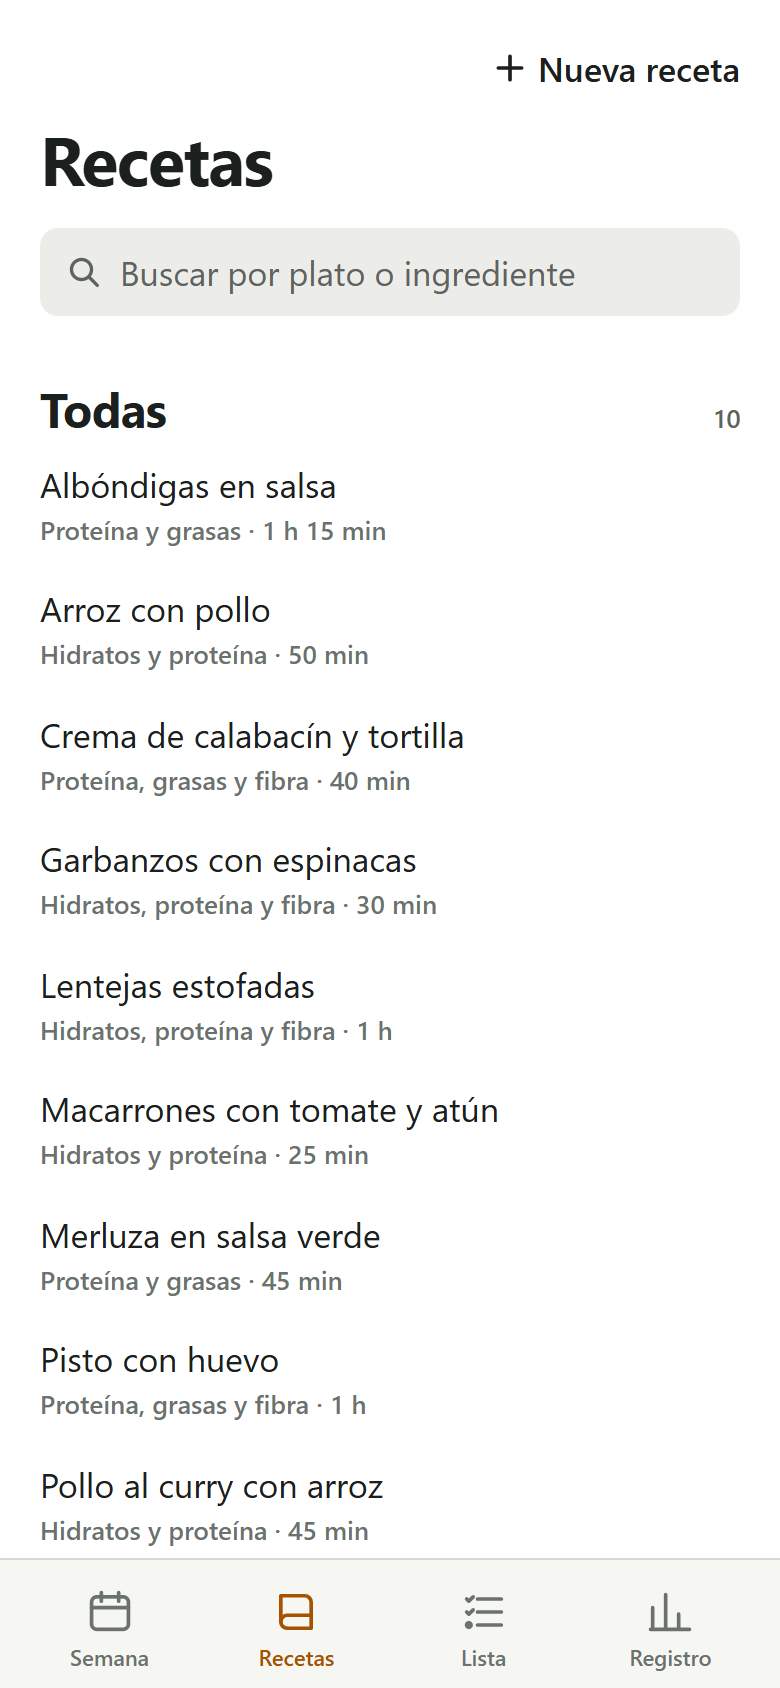
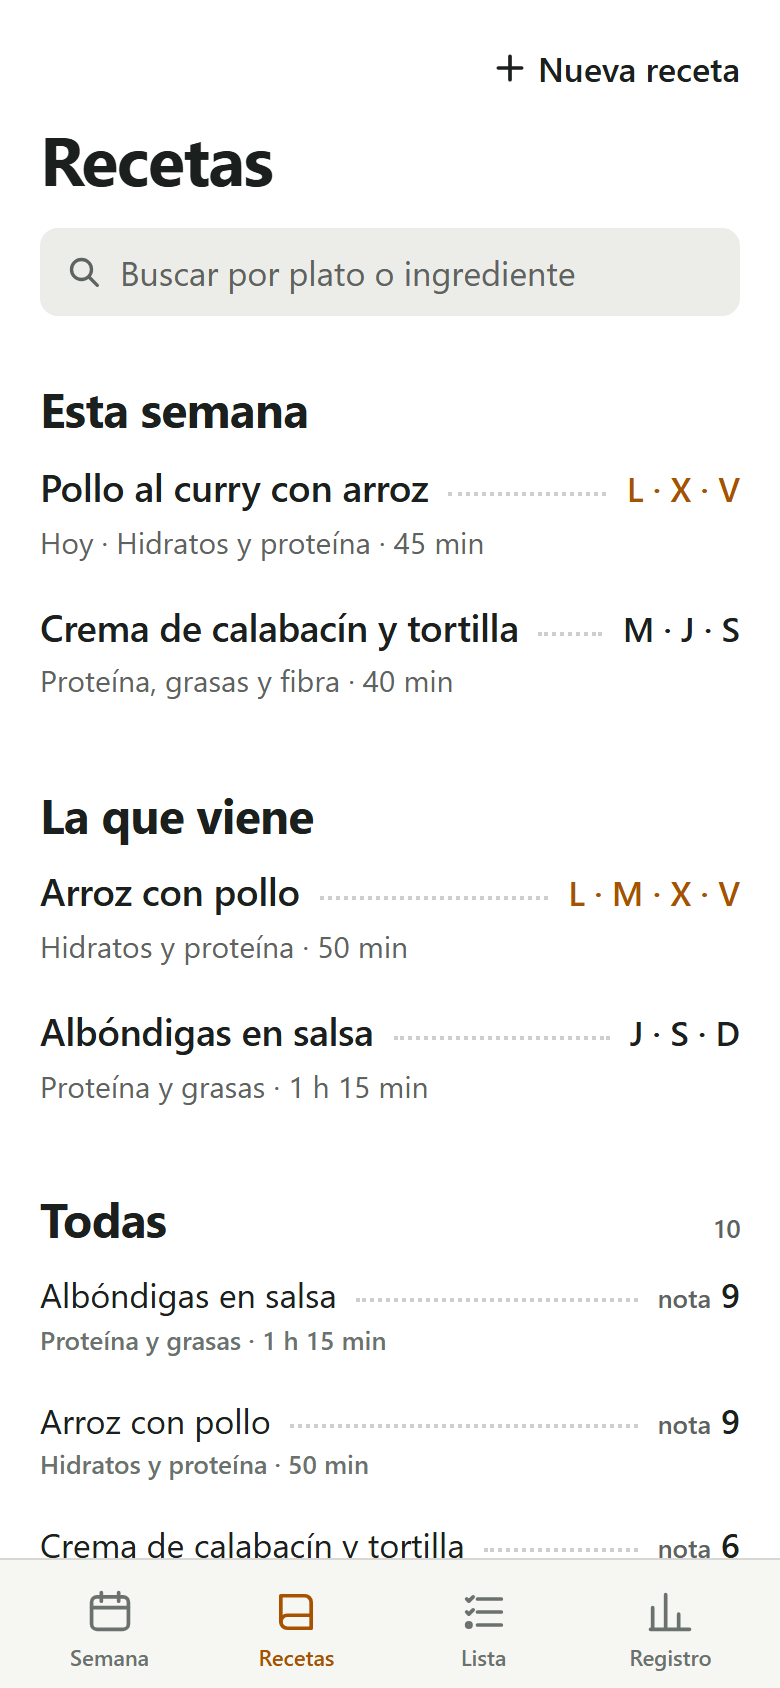
docs: show the week tab and settings in the README
- README: plan 3 done, Semana and Ajustes in use, new screenshots in light and dark,
  how to plan the week, invite from Ajustes and re-run the local migrations.
- Spec: decisions 25 and 28 as built (only the list writes the week row; an empty
  slot keeps its days).
- DESIGN.md: the empty picker sentence.

diff --git a/README.md b/README.md
@@ -10,19 +10,21 @@ sola. Es una PWA para iPhone: React, Vite y TypeScript, servida por un Worker de
 
 ## En qué punto está
 
-La app se construye en seis planes. Los dos primeros están terminados:
+La app se construye en seis planes. Los tres primeros están terminados:
 - **El 1, los cimientos:** acceso, base de datos, sincronización y las reglas de la semana.
 - **El 2, las recetas:** el recetario, la receta para cocinar y el editor con fotos.
+- **El 3, la semana:** la propuesta, los días activos, el domingo, cambiar platos, hacer la lista y
+  Ajustes.
 
-Las demás pantallas de uso diario llegan en los planes 3 a 5.
+La pantalla de la lista y el registro llegan en los planes 4 y 5. Hay 276 tests y todos pasan.
 
 | Parte | Estado |
 |---|---|
-| Entrar sin contraseñas: passkey, invitación y sesión | Funciona |
+| Entrar sin contraseñas: passkey, invitación y sesión | Funciona. La invitación y cerrar sesión están en Ajustes |
 | Copia en el móvil y sincronización | Funciona. La copia se abre con tu hogar y se sincroniza sola al abrir, al escribir y al volver a la app |
-| Reglas: reparto, propuesta, lista, cantidades y notas | Funcionan. Las recetas ya usan las suyas: cantidades, tipos y marcas de los pasos |
-| Recetas: índice, búsqueda, cocinar, crear, editar, borrar y fotos | Funciona |
-| Semana | Plan 3 |
+| Reglas: reparto, propuesta, lista, cantidades y notas | Funcionan. Las recetas y la semana ya usan las suyas |
+| Recetas: índice, búsqueda, cocinar, crear, editar, borrar y fotos | Funciona. El índice enseña también los platos de esta semana y de la que viene |
+| Semana: propuesta, días activos, domingo, cambiar platos y hacer la lista | Funciona. La lista ya guarda sus productos; su pantalla llega en el plan 4 |
 | Lista de la compra | Plan 4 |
 | Registro | Plan 5 |
 | En vivo entre los dos, sin conexión y publicación | Plan 6 |
@@ -36,27 +38,41 @@ Las pantallas que ya existen, en un iPhone de 390 puntos.
     <td width="25%"><img src="docs/capturas/app-bienvenida-claro.png" alt="Bienvenida: el título Despensa, una línea que explica la app, el botón Crear nuestro hogar y el enlace Ya tengo cuenta: entrar"></td>
     <td width="25%"><img src="docs/capturas/app-invitacion-claro.png" alt="Invitación: Tu pareja te invita a su Despensa, con el botón Entrar con Face ID"></td>
     <td width="25%"><img src="docs/capturas/app-invitacion-caducada-claro.png" alt="Invitación que ya no vale, con el enlace Entrar con mi passkey"></td>
-    <td width="25%"><img src="docs/capturas/app-semana-claro.png" alt="Semana tras entrar: el título y la barra de cuatro pestañas, aún vacía"></td>
+    <td width="25%"><img src="docs/capturas/app-ajustes-claro.png" alt="Ajustes: Tu pareja con el botón Invitar a tu pareja, Sesión con Cerrar sesión y la versión 0.3.0"></td>
   </tr>
   <tr>
     <td><b>Bienvenida</b><br>Crear vuestro hogar o volver a entrar con tu passkey.</td>
     <td><b>Invitación</b><br>Lo que ve tu pareja al abrir el enlace.</td>
     <td><b>Invitación que ya no vale</b><br>Caducó, ya se usó o el hogar está completo.</td>
-    <td><b>Tras entrar</b><br>Semana, Lista y Registro aún están vacías.</td>
+    <td><b>Ajustes</b><br>Invitar a tu pareja, cerrar sesión y la versión. Se abre con el engranaje de Semana.</td>
   </tr>
 </table>
 
-Las recetas, con las diez recetas inventadas de la semilla de desarrollo y una foto también inventada.
+La semana y las recetas, con las diez recetas inventadas de la semilla de desarrollo, su historial de
+notas también inventado y una foto ilustrada.
 
 <table>
   <tr>
-    <td width="25%"><img src="docs/capturas/app-recetas-claro.png" alt="Recetas: el título, Nueva receta, el buscador y la lista de todas las recetas con sus tipos y su tiempo"></td>
-    <td width="25%"><img src="docs/capturas/app-receta-claro.png" alt="Lentejas estofadas a medio cocinar: los dos primeros pasos y los ingredientes que ya no se usan, tachados"></td>
-    <td width="25%"><img src="docs/capturas/app-editor-claro.png" alt="Editor de receta en la parte Ingredientes: cada ingrediente con su cantidad, su tipo y su sección"></td>
-    <td width="25%"><img src="docs/capturas/app-receta-foto-claro.png" alt="Lentejas estofadas con la miniatura de su foto junto al título"></td>
+    <td width="25%"><img src="docs/capturas/app-semana-esta-claro.png" alt="Esta semana: Hoy toca pollo al curry con arroz, los días activos y el menú de dos platos con el domingo fuera"></td>
+    <td width="25%"><img src="docs/capturas/app-semana-claro.png" alt="La que viene: la propuesta de arroz con pollo y pisto con huevo, Elegir otra receta en cada plato, el domingo fuera con Comer en casa, una sugerencia y la lista ya hecha con 10 productos"></td>
+    <td width="25%"><img src="docs/capturas/app-elegir-claro.png" alt="Elegir receta en lugar de pisto con huevo: Cancelar, el buscador y todas las recetas que no están en el menú"></td>
+    <td width="25%"><img src="docs/capturas/app-recetas-claro.png" alt="Recetas: Nueva receta, el buscador, los platos de esta semana y de la que viene con sus días, y todas las recetas con su nota"></td>
   </tr>
   <tr>
-    <td><b>Recetas</b><br>Todas, por nombre, con búsqueda por plato o ingrediente.</td>
+    <td><b>Esta semana</b><br>Lo que toca hoy y los días que ya pasaron, tachados.</td>
+    <td><b>La que viene</b><br>La propuesta ya escrita: tocas los días activos, cambias un plato y haces la lista.</td>
+    <td><b>Elegir receta</b><br>Cualquier receta para un plato del menú, sin las que ya están.</td>
+    <td><b>Recetas</b><br>Primero los platos de las dos semanas; luego todas, con búsqueda.</td>
+  </tr>
+</table>
+
+<table>
+  <tr>
+    <td width="33%"><img src="docs/capturas/app-receta-claro.png" alt="Lentejas estofadas a medio cocinar: los dos primeros pasos y los ingredientes que ya no se usan, tachados"></td>
+    <td width="33%"><img src="docs/capturas/app-editor-claro.png" alt="Editor de receta en la parte Ingredientes: cada ingrediente con su cantidad, su tipo y su sección"></td>
+    <td width="33%"><img src="docs/capturas/app-receta-foto-claro.png" alt="Lentejas estofadas con la miniatura de su foto junto al título"></td>
+  </tr>
+  <tr>
     <td><b>Cocinar</b><br>Al tachar un paso se tachan arriba los ingredientes que ya no se usan.</td>
     <td><b>Editor</b><br>Por partes: la receta, los ingredientes y los pasos.</td>
     <td><b>Con foto</b><br>Una miniatura junto al título; al tocarla se abre a lo ancho.</td>
@@ -68,14 +84,20 @@ Las recetas, con las diez recetas inventadas de la semilla de desarrollo y una f
 
 <table>
   <tr>
-    <td width="33%"><img src="docs/capturas/app-bienvenida-oscuro.png" alt="Bienvenida en modo oscuro"></td>
-    <td width="33%"><img src="docs/capturas/app-invitacion-oscuro.png" alt="Invitación en modo oscuro"></td>
-    <td width="33%"><img src="docs/capturas/app-invitacion-caducada-oscuro.png" alt="Invitación que ya no vale en modo oscuro"></td>
+    <td width="25%"><img src="docs/capturas/app-bienvenida-oscuro.png" alt="Bienvenida en modo oscuro"></td>
+    <td width="25%"><img src="docs/capturas/app-invitacion-oscuro.png" alt="Invitación en modo oscuro"></td>
+    <td width="25%"><img src="docs/capturas/app-invitacion-caducada-oscuro.png" alt="Invitación que ya no vale en modo oscuro"></td>
+    <td width="25%"><img src="docs/capturas/app-ajustes-oscuro.png" alt="Ajustes en modo oscuro"></td>
   </tr>
   <tr>
-    <td width="33%"><img src="docs/capturas/app-recetas-oscuro.png" alt="Recetas en modo oscuro"></td>
-    <td width="33%"><img src="docs/capturas/app-receta-oscuro.png" alt="Lentejas estofadas a medio cocinar en modo oscuro"></td>
-    <td width="33%"><img src="docs/capturas/app-editor-oscuro.png" alt="Editor de receta en modo oscuro"></td>
+    <td width="25%"><img src="docs/capturas/app-semana-esta-oscuro.png" alt="Esta semana en modo oscuro"></td>
+    <td width="25%"><img src="docs/capturas/app-semana-oscuro.png" alt="La que viene en modo oscuro"></td>
+    <td width="25%"><img src="docs/capturas/app-elegir-oscuro.png" alt="Elegir receta en modo oscuro"></td>
+    <td width="25%"><img src="docs/capturas/app-recetas-oscuro.png" alt="Recetas en modo oscuro"></td>
+  </tr>
+  <tr>
+    <td width="25%"><img src="docs/capturas/app-receta-oscuro.png" alt="Lentejas estofadas a medio cocinar en modo oscuro"></td>
+    <td width="25%"><img src="docs/capturas/app-editor-oscuro.png" alt="Editor de receta en modo oscuro"></td>
   </tr>
 </table>
 
@@ -83,9 +105,9 @@ Las recetas, con las diez recetas inventadas de la semilla de desarrollo y una f
 
 ## Cómo será
 
-Los cuatro prototipos aprobados, con recetas inventadas. Recetas ya está construida (arriba); el resto
-es el diseño que se construye en los planes 3 a 5. El editor de recetas tiene su propio prototipo,
-`prototipo/editor.html`.
+Los cuatro prototipos aprobados, con recetas inventadas. Semana y Recetas ya están construidas (arriba);
+Lista y Registro son el diseño que se construye en los planes 4 y 5. El editor de recetas y Ajustes
+tienen su propio prototipo, `prototipo/editor.html` y `prototipo/ajustes.html`.
 
 <table>
   <tr>
@@ -120,15 +142,10 @@ es el diseño que se construye en los planes 3 a 5. El editor de recetas tiene s
 
 1. **Crea vuestro hogar.** Abre la app y pulsa **Crear nuestro hogar**. Face ID crea tu passkey y
    entras en Semana. No hay usuario ni contraseña, y la app no pide nombre, correo ni teléfono.
-2. **Invita a tu pareja.** La pantalla de Ajustes con el botón de invitar llega más adelante.
-   Mientras tanto, con la sesión abierta, pide el enlace desde la consola del navegador:
-
-   ```js
-   fetch('/api/invitaciones', { method: 'POST' }).then(r => r.json()).then(console.log)
-   ```
-
-   La respuesta trae el `enlace` y cuándo `caduca`. Mándaselo por WhatsApp o AirDrop. Vale una sola
-   vez durante 24 horas, y el hogar admite dos personas.
+2. **Invita a tu pareja.** En Semana, el engranaje de arriba abre **Ajustes**. **Invitar a tu pareja**
+   abre la hoja de compartir del iPhone para mandarle el enlace por WhatsApp o AirDrop; si no hay hoja,
+   el enlace se copia. Vale una sola vez durante 24 horas, y el hogar admite dos personas. Con los
+   dos dentro, Ajustes ya no ofrece invitar.
 3. **Tu pareja acepta.** Abre el enlace, pulsa **Entrar con Face ID** y crea su propia passkey. Desde
    ese momento los dos estáis en el mismo hogar.
 4. **Volver a entrar.** **Ya tengo cuenta: entrar** usa la passkey que ya tienes. Lo necesitarás en la
@@ -146,6 +163,22 @@ es el diseño que se construye en los planes 3 a 5. El editor de recetas tiene s
    **Deshacer**).
 7. **Corrige o borra.** **Editar** abre la receta en el editor. **Borrar receta** la quita, y en el
    índice queda **Deshacer** hasta la siguiente acción.
+8. **Planifica la semana que viene.** Semana se abre en **Esta semana** de lunes a jueves, con lo que
+   toca hoy, y en **La que viene** de viernes a domingo. En La que viene la propuesta ya está escrita:
+   un plato con hidratos para los días activos y otro para el resto, elegidos entre los que tienen
+   buena nota y hace tiempo que no coméis.
+   - **Días activos:** toca un día para cambiarlo y los platos se recolocan solos.
+   - **El domingo:** empieza fuera; **Comer en casa** lo mete en el reparto.
+   - **Cambiar un plato:** **Cambiar por …** en una sugerencia, o **Elegir otra receta** para poner
+     cualquiera. El plato de antes queda en **En lugar de … · Deshacer**.
+   - **La lista:** **Hacer la lista de la compra** la llena con los ingredientes de los dos platos. Si
+     después cambias un plato, **Actualizar la lista** rehace lo que sale de las recetas y respeta lo
+     demás. La pantalla de la lista llega en el plan 4.
+
+   Nada de la propuesta se guarda hasta que tocáis algo, y lo que toca cada uno se ve en el otro
+   móvil al sincronizar.
+9. **Cerrar sesión.** En Ajustes, **Cerrar sesión** envía antes lo pendiente. Para volver, **Ya tengo
+   cuenta: entrar**.
 
 > Si una invitación ya no vale, pide un enlace nuevo. Si en realidad ya estabas dentro, usa **Entrar
 > con mi passkey**. No se puede sacar a nadie de un hogar, y de momento no hace falta: si alguien
@@ -167,6 +200,9 @@ permite probar las passkeys con un autenticador virtual.
    ```sh
    npm run db:migrar:local
    ```
+
+   Repítelo cada vez que actualices el repo: aplica solo las migraciones nuevas (la `0002` añade a
+   cada semana de qué recetas salió su lista).
 
 3. Comprueba que pasan los tests:
 
@@ -190,8 +226,10 @@ permite probar las passkeys con un autenticador virtual.
    await despensa.semilla()
    ```
 
-   Carga las diez recetas inventadas de los prototipos. Solo existe en desarrollo (`npm run dev`) y se
-   puede repetir sin duplicar nada. Hazlo en un solo hogar: las recetas de la semilla tienen ids fijos.
+   Carga las diez recetas inventadas de los prototipos y un historial también inventado: esta semana
+   planificada y seis semanas de comidas con una nota cada una, para que Semana tenga qué proponer y
+   qué sugerir. Solo existe en desarrollo (`npm run dev`) y se puede repetir sin duplicar nada. Hazlo
+   en un solo hogar: la semilla usa ids fijos.
 
 ### Comandos
 
@@ -234,7 +272,7 @@ hacer nada más.
 | Nombre, correo o teléfono | No se piden |
 | Tu passkey | En tu llavero |
 | Sesiones e invitaciones | Solo su hash |
-| Recetas, semana y notas | En la D1 de tu cuenta de Cloudflare |
+| Recetas, semana, lista y notas | En la D1 de tu cuenta de Cloudflare |
 | Fotos de las recetas | En R2, en tu cuenta de Cloudflare, reducidas en el móvil y sin datos de la cámara ni de ubicación |
 | Progreso al cocinar | Solo en tu móvil, 12 horas |
 

diff --git a/docs/superpowers/specs/2026-10-20-despensa-app-design.md b/docs/superpowers/specs/2026-10-20-despensa-app-design.md
@@ -325,17 +325,19 @@ principal de cada punto:
     domingo (el supuesto del apartado 14). El segmento elegido va en la dirección
     (`/semana?ver=viene`), así se conserva al volver de elegir una receta.
 25. La propuesta no se guarda hasta que alguien toca la semana, y cada gesto escribe solo lo
-    que toca (la semana, un día o un hueco) con ids fijos sacados del lunes. Los dos móviles
-    escriben las mismas filas y nunca hay dos semanas para el mismo lunes. "Hacer la lista"
-    fija el menú y los siete días.
+    que toca (un día o un hueco) con ids fijos sacados del lunes. Los dos móviles escriben las
+    mismas filas y nunca hay dos semanas para el mismo lunes. La fila de la semana solo la
+    escribe "Hacer la lista", que fija el menú y los siete días: así un móvil sin sincronizar
+    no deshace, al tocar un día, la lista que hizo el otro.
 26. Una semana nueva copia los días activos y el domingo de la última semana guardada; sin
     ninguna, L, X y V activos y el domingo fuera.
 27. La propuesta, las sugerencias y "Hace N semanas" se calculan respecto al lunes de la
     semana que se planifica, y solo con lo anterior a ese lunes: lo apuntado en el Registro y,
     en los días sin registro, lo planificado. Así el menú de una semana no cambia a mitad de
     semana.
-28. Con recetas de un solo tipo, los dos huecos se llenan con ese tipo. Un hueco sin receta
-    posible, o cuya receta se borró, queda "Sin plato".
+28. Con recetas de un solo tipo, los dos huecos se llenan con ese tipo, sin repetir receta. Un
+    hueco sin receta posible, o cuya receta se borró, queda "Sin plato" y conserva sus días, para
+    que se vea qué días se quedan sin plato.
 29. "Hace tiempo que no coméis" enseña dos recetas: la mejor energética y la mejor que no lo
     es, fuera del menú. Una receta sin notas dice "Por probar".
 30. Cada plato del menú tiene su "Elegir otra receta", que abre el recetario en modo elegir

diff --git a/DESIGN.md b/DESIGN.md
@@ -583,7 +583,7 @@ El índice de Recetas es la carta entera. Arriba, "Recetas" en display y el busc
 ### Recipe Picker (modo elegir)
 El índice de Recetas convertido en una tarea de un toque, abierta desde la acción de un plato de Semana.
 - **Arriba:** "Cancelar" a la izquierda como cancelar tranquilo (15px peso 500 `ink-2`, 44px); sin "Nueva receta". Debajo, "Elegir receta" en display y, 8px por debajo, "En lugar de **plato**" en 17px `ink-2` con el plato en tinta peso 600; en un hueco sin plato no hay línea.
-- **Lista:** el mismo buscador y una sola sección "Todas" con su recuento; cada receta es un botón de ancho completo con la anatomía de la fila del índice (nombre, puntos guía y nota, tipos y tiempo debajo). Las recetas que ya están en el menú no aparecen. Sin resultados, la misma frase del buscador.
+- **Lista:** el mismo buscador y una sola sección "Todas" con su recuento; cada receta es un botón de ancho completo con la anatomía de la fila del índice (nombre, puntos guía y nota, tipos y tiempo debajo). Las recetas que ya están en el menú no aparecen. Sin resultados, la misma frase del buscador; si todas las recetas están ya en el menú, "No hay más recetas que ofrecer." en 15px `ink-2`, sin botón.
 - **Elegir:** al tocar una receta se vuelve a Semana con ella en el hueco y "En lugar de ~~plato anterior~~ · Deshacer" debajo (The Strike, Don't Erase Rule).
 
 ### Ingredient Row
